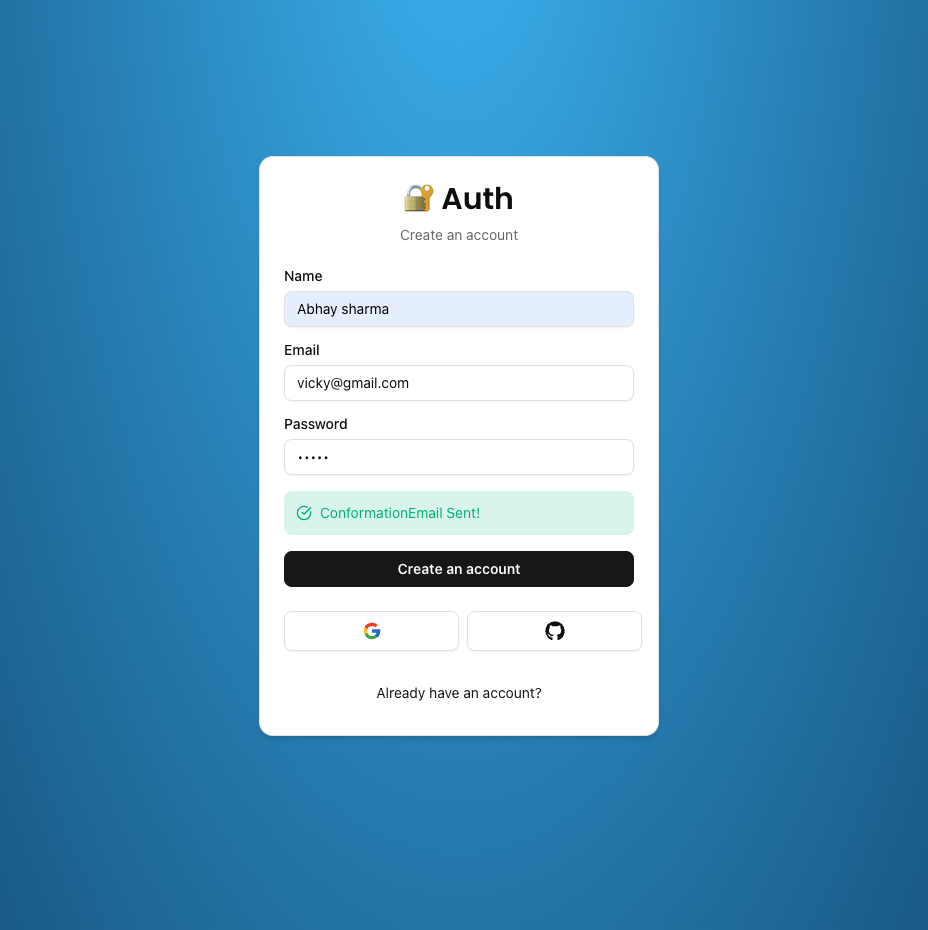
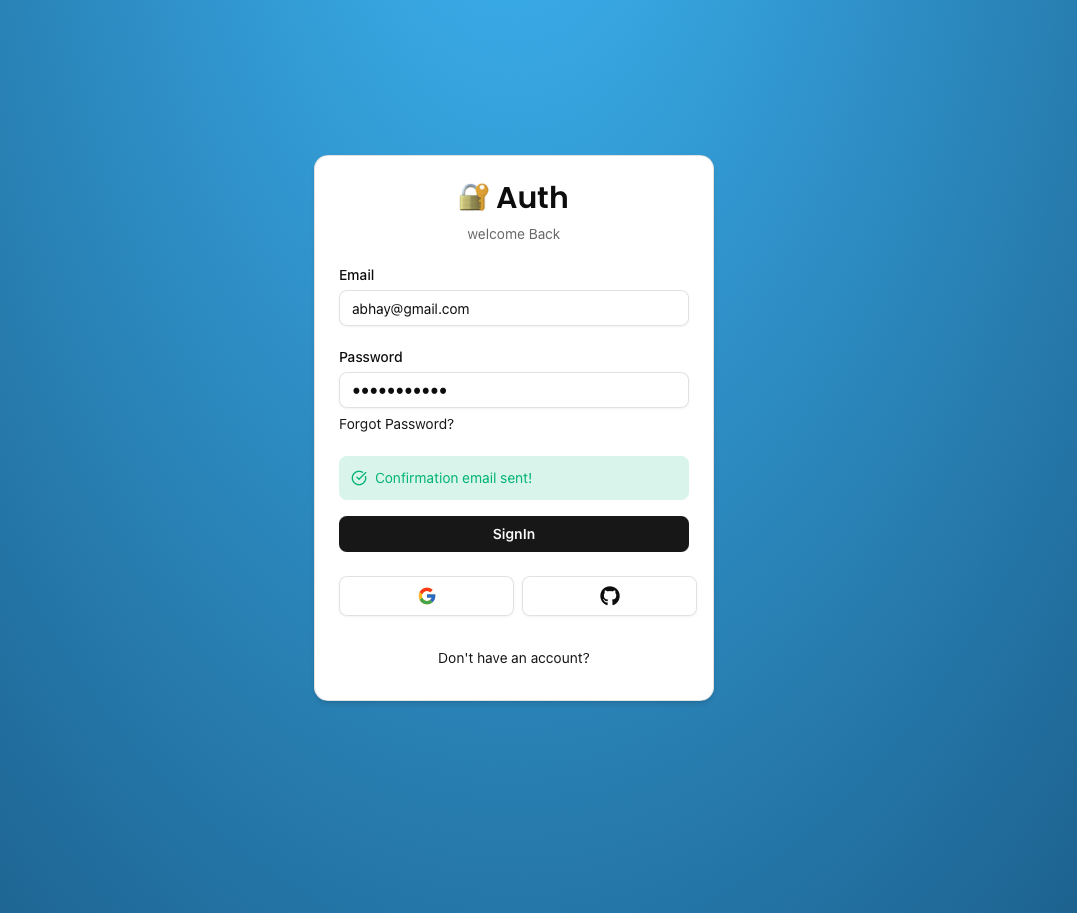
feat : 2FA code with sned 2FA on email funcnality

Changed region(s): [[0.2812, 0.1533, 0.7188, 0.7974], [0.5938, 0.6747, 0.625, 0.7054]]

diff --git a/src/components/auth/signin-form.tsx b/src/components/auth/signin-form.tsx
@@ -28,6 +28,7 @@ export const SignInform = () => {
   const params = useSearchParams();
   const authError = params.get("error")
   const errorMessage = authError === "OAuthAccountNotLinked" ? "Email is already linked with different Provider" : "";
+  const [isTwoFactor, setIsTwoFactor] = useState(false)
 
   const [isPending, startTransition] = useTransition();
   const [error, setError] = useState<string | undefined>("")
@@ -36,54 +37,90 @@ export const SignInform = () => {
     resolver: zodResolver(LoginSchema),
     defaultValues: {
       email: "",
-      password: ""
+      password: "",
+      code: ""
     }
   })
 
   const onFormSubmit = (values: z.infer<typeof LoginSchema>) => {
+    setError("")
+    setSuccess("")
     startTransition(() => {
       signInAction(values).then((data) => {
-        setSuccess(data?.success)
-        setError(data?.error)
+        if (data?.error) {
+          form.reset()
+          setError(data.error)
+        }
+        if (data?.success) {
+          form.reset()
+          setSuccess(data.success)
+        }
+        if (data?.TwoFactor) {
+          setIsTwoFactor(true)
+        }
+      }).catch(() => {
+        setError("Something went wrong!")
       })
     })
   }
 
   return (
-    <CardWrapper headerLabel="welcome Back" backButtonLabel="Don't have an account?" backButtonHref="/sign-up" showSocial>
+    <CardWrapper headerLabel="welcome Back" backButtonLabel="Don't have an account?" backButtonHref="/sign-up" showSocial={!isTwoFactor}>
       <Form {...form}>
         <form onSubmit={form.handleSubmit(onFormSubmit)} className="space-y-4">
           <div className="space-y-6">
-            <FormField
-              name="email"
-              render={({ field }) => (
-                <FormItem>
-                  <FormLabel>Email</FormLabel>
-                  <FormControl>
-                    <Input disabled={isPending} placeholder="example@gmail.com" type="email" className="focus-visible:ring-0"  {...field} />
-                  </FormControl>
-                  <FormMessage />
-                </FormItem>
-              )}
-            />
-            <div>
+            {isTwoFactor && (
               <FormField
-                name="password"
+                name="code"
+                control={form.control}
                 render={({ field }) => (
                   <FormItem>
-                    <FormLabel>Password</FormLabel>
+                    <FormLabel>Code</FormLabel>
                     <FormControl>
-                      <Input disabled={isPending} placeholder="*********" type="password" className="focus-visible:ring-0"  {...field} />
+                      <Input disabled={isPending} placeholder="******" type="password" className="focus-visible:ring-0"  {...field} />
                     </FormControl>
                     <FormMessage />
                   </FormItem>
                 )}
               />
-              <Button variant="link" size="sm" type="button" asChild className="p-0 font-normal m-0">
-                <Link href="/auth/reset">Forgot Password?</Link>
-              </Button>
-            </div>
+            )}
+
+
+            {!isTwoFactor && (
+              <>
+                <FormField
+                  name="email"
+                  control={form.control}
+                  render={({ field }) => (
+                    <FormItem>
+                      <FormLabel>Email</FormLabel>
+                      <FormControl>
+                        <Input disabled={isPending} placeholder="example@gmail.com" type="email" className="focus-visible:ring-0"  {...field} />
+                      </FormControl>
+                      <FormMessage />
+                    </FormItem>
+                  )}
+                />
+                <FormField
+                  control={form.control}
+                  name="password"
+                  render={({ field }) => (
+                    <FormItem>
+                      <FormLabel>Password</FormLabel>
+                      <FormControl>
+                        <Input disabled={isPending} placeholder="*********" type="password" className="focus-visible:ring-0"  {...field} />
+                      </FormControl>
+                      <FormMessage />
+                    </FormItem>
+                  )}
+                />
+                <Button variant="link" size="sm" type="button" asChild className="p-0 font-normal m-0">
+                  <Link href="/auth/reset">Forgot Password?</Link>
+                </Button>
+              </>
+            )}
           </div>
+
           <Error label={error || errorMessage} />
           <Success label={success as string} />
           <Button type="submit" className="w-full font-semibold">

diff --git a/src/actions/signin.ts b/src/actions/signin.ts
@@ -1,7 +1,10 @@
 "use server";
 
 import { signIn } from "@/auth";
+import { generate2FaToken } from "@/data/2FA-token";
 import { getUserByEmail } from "@/data/user";
+import { getTwoFactorFaVerificationCodeByEmail, getTwoFactorVerificationById } from "@/lib/2FA-token";
+import { db } from "@/lib/db";
 import { sendVerificationEmail } from "@/lib/mail";
 import { generateVerificationToken } from "@/lib/token";
 import { DEFAULT_LOGIN_REDIRECT } from "@/route";
@@ -17,7 +20,7 @@ export const signInAction = async (values: z.infer<typeof LoginSchema>) => {
 			error: "Invalid Fields"
 		}
 	}
-	const { email, password } = validateFields.data
+	const { email, password, code } = validateFields.data
 
 	const existingUser = await getUserByEmail(email);
 
@@ -26,12 +29,60 @@ export const signInAction = async (values: z.infer<typeof LoginSchema>) => {
 	}
 	if (!existingUser.emailVerified) {
 		const verificationToken = await generateVerificationToken(existingUser.email);
-		if(!verificationToken) {
-			return {error : "Cannot generate token"}
+		if (!verificationToken) {
+			return { error: "Cannot generate token" }
 		}
 		await sendVerificationEmail(existingUser.email, verificationToken?.token);
 		return { success: "Confirmation email sent!" }
 	}
+	if (existingUser.isTwoFactorEnabled && existingUser.email) {
+		if (code) {
+			const existingToken = await getTwoFactorFaVerificationCodeByEmail(existingUser.email)
+			if (!existingToken) {
+				return {
+					error: "Invalid Code"
+				}
+			}
+			const hasExpires = new Date(existingToken.expires) < new Date();
+			if (hasExpires) {
+				return {
+					error: "Code in expired!"
+				}
+			}
+			if (existingToken.token !== code) {
+				return {
+					error: "Invalid Code"
+				}
+			}
+			await db.tokenFactorToken.delete({
+				where: { id: existingToken.id }
+			})
+
+			const existingTwoFactorConfirmation = await getTwoFactorVerificationById(existingUser.id);
+			if (existingTwoFactorConfirmation) {
+				await db.twoFactorConfirmation.delete({
+					where: {
+						id: existingTwoFactorConfirmation.id
+					}
+				})
+			}
+			await db.twoFactorConfirmation.create({
+				data: {
+					userId: existingUser.id
+				}
+			})
+		} else {
+			const twoFaToken = await generate2FaToken(email)
+			console.log({ twoFaToken })
+			if (!twoFaToken) {
+				return { error: "cannot generate token try again later" }
+			}
+
+			// await send2FaCodeEmail(twoFaToken?.email, twoFaToken?.token)
+			return { "TwoFactor": true }
+		}
+	}
+
 	try {
 		await signIn("credentials", {
 			email, password, redirectTo: DEFAULT_LOGIN_REDIRECT

diff --git a/src/auth.ts b/src/auth.ts
@@ -5,6 +5,7 @@ import authConfig from "./auth.config";
 import { db } from "./lib/db";
 import { getUserById } from "./data/user";
 import { UserRole } from "./generated/prisma/enums";
+import { getTwoFactorVerificationById } from "./lib/2FA-token";
 
 export const { auth, handlers, signIn, signOut } = NextAuth({
   adapter: PrismaAdapter(db),
@@ -22,7 +23,14 @@ export const { auth, handlers, signIn, signOut } = NextAuth({
       if (!existingUser?.emailVerified) {
         return false
       }
-      // ADD 2FA check
+      // prevent user to signin without 2FA
+      if (existingUser.isTwoFactorEnabled) {
+        const twoFactorConfirmation = await getTwoFactorVerificationById(existingUser.id);
+        if (!twoFactorConfirmation) return false
+
+        //  Delete teo factor confirmation for next signIn
+        await db.twoFactorConfirmation.delete({ where: { id: twoFactorConfirmation?.id } })
+      }
       return true
     },
     async session({ session, token }) {

diff --git a/src/data/2FA-token.ts b/src/data/2FA-token.ts
@@ -1,0 +1,30 @@
+
+import { getTwoFactorFaVerificationCodeByEmail } from "@/lib/2FA-token";
+import { db } from "@/lib/db";
+import crypto from "crypto";
+
+
+export const generate2FaToken = async (email: string) => {
+	try {
+		const code = crypto.randomInt(100_000, 100_000_0).toString();
+		const expires = new Date(new Date().getTime() + 3600 * 1000) // 1 hours
+
+		const existingToken = await getTwoFactorFaVerificationCodeByEmail(email);
+		if (existingToken) {
+			await db.tokenFactorToken.delete({ where: { id: existingToken.id } })
+		}
+		const newToken = await db.tokenFactorToken.create({
+			data: {
+				email,
+				token: code,
+				expires
+			}
+		})
+
+		console.log({newToken})
+		return newToken
+	} catch (error) {
+		console.log("Error in generate2FaToken", error);
+		return null
+	}
+}

diff --git a/src/lib/2FA-token.ts b/src/lib/2FA-token.ts
@@ -1,0 +1,25 @@
+import { db } from "./db"
+
+
+export const getTwoFactorFaVerificationCodeByEmail = async (email: string) => {
+	try {
+		return await db.tokenFactorToken.findFirst({
+			where: { email }
+		})
+	} catch (error) {
+		console.log("Error in get2FaVerificationCodeByEmail", error)
+		return null
+	}
+}
+
+
+export const getTwoFactorVerificationById = async (id: string) => {
+	try {
+		const token =  await db.twoFactorConfirmation.findUnique({ where: { userId : id  } })
+		console.log({token})
+		return token
+	} catch (error) {
+		console.log("Error in getTwoFactorVerificationById", error)
+		return null;
+	}
+}

diff --git a/src/lib/mail.ts b/src/lib/mail.ts
@@ -3,6 +3,16 @@ import { Resend } from "resend";
 const resend = new Resend(process.env.RESENT_API_KEY);
 
 
+export const send2FaCodeEmail = async (email: string, code: string) => {
+	await resend.emails.send({
+		from: "onboard@resend.dev",
+		to: email,
+		subject: "2FA Code",
+		html: `Here is your 2FA Code : ${code}`
+	})
+}
+
+
 export const sendVerificationEmail = async (email: string, token: string) => {
 	const confirmLink = `http://localhost:3000/auth/new-verification?token=${token}`;
 

diff --git a/src/schemas/index.ts b/src/schemas/index.ts
@@ -1,8 +1,9 @@
 import * as z from "zod";
 
 export const LoginSchema = z.object({
-	email: z.string().min(1, "Login field cannot be empty"),
+	email: z.string().min(1, "email field cannot be empty"),
 	password: z.string().min(1, "Password field cannot be empty"),
+	code: z.string().optional()
 })
 
 export const RegisterSchema = z.object({
